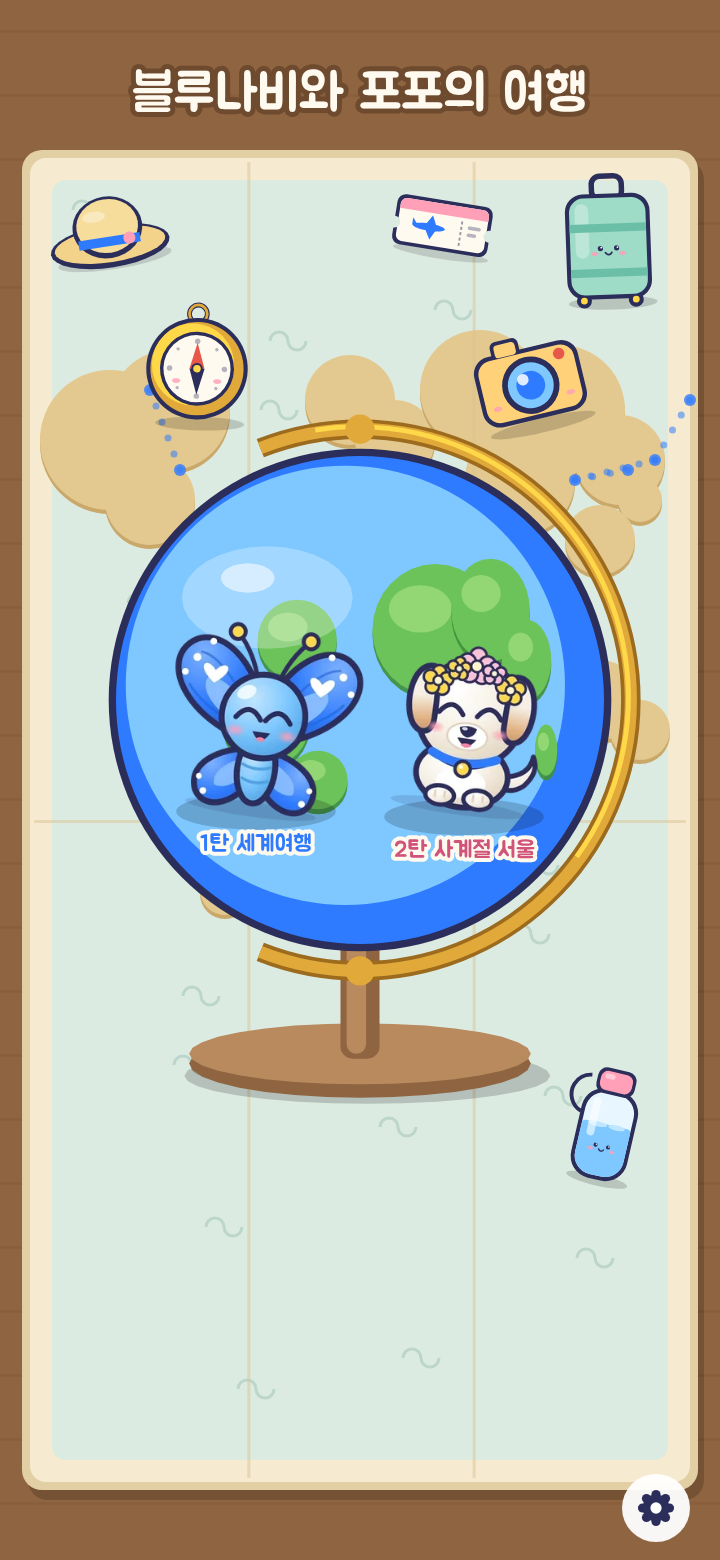
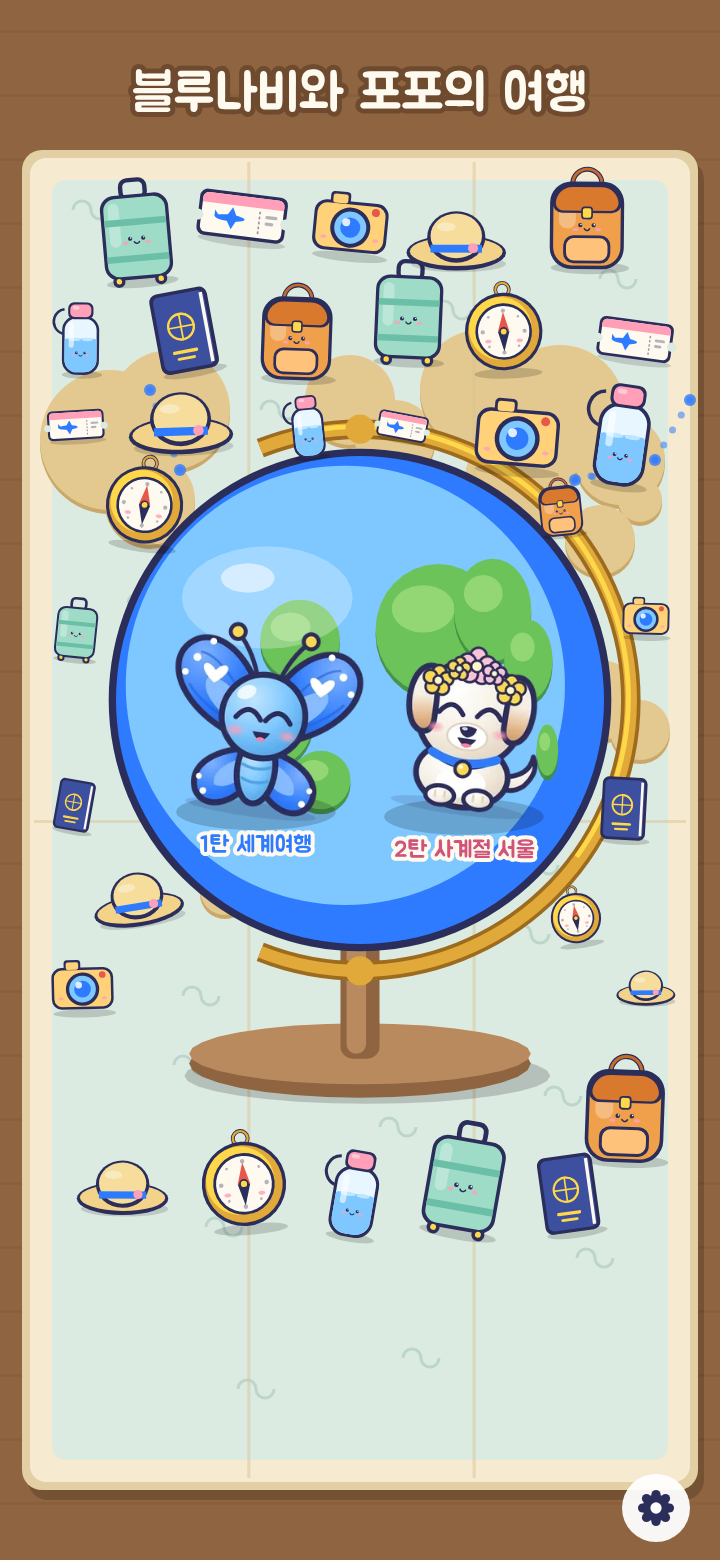
세로 썸네일: 여행 물품을 지구본 중심으로 빽빽하게, 같은 물품이 붙지 않게 (makeItems 옵션)
Claude-Session: https://claude.ai/code/session_01TkNv9721uSkR9vMBe25YwV

diff --git a/src/scenes/EntryScene.js b/src/scenes/EntryScene.js
@@ -169,43 +169,54 @@ export class EntryScene extends Phaser.Scene {
   // ── 주변 빈 곳을 채우는 귀여운 여행 물품 (배낭·물병·나침반, 파일 없이 그림, 2026-11-10) ──
   // 지도 종이의 빈 곳(지구본·블루나비·포포·제목을 피해서)에 물품을 흩어 놓는다 — 세로·가로·길쭉한 폰 모두 채워지게.
   // 자리는 고른 격자 + 조금씩 어긋나게(시드 고정), 크기·기울기도 조금씩 달리해 책상 위에 놓인 듯 자연스럽게.
-  makeItems() {
+  // opts(썸네일처럼 빽빽하게 채울 때): step 칸 간격, base·vary 크기, gap 지구본과 틈, bottom 이 아래는 비워 둠, max 개수
+  makeItems(opts = {}) {
+    this.items?.forEach((g) => g.destroy());
     const P = this.paper, { gx, gy, gs } = this.lay, land = UI.landscape;
     const R = GLOBE.r * gs;
-    const step = land ? 150 : 172;
+    const step = opts.step ?? (land ? 150 : 172);
+    const gap = opts.gap ?? 40, base = opts.base ?? (land ? 0.52 : 0.6), vary = opts.vary ?? 0.14;
+    const bottom = opts.bottom ?? Infinity, max = opts.max ?? 22;
     const KINDS = ['backpack', 'camera', 'bottle', 'ticket', 'compass', 'hat', 'suitcase', 'passport'];
     const DRAW = { backpack: drawBackpack, bottle: drawBottle, compass: drawCompass, suitcase: drawSuitcase, camera: drawCamera, hat: drawHat, passport: drawPassport, ticket: drawTicket };
     const rnd = (k) => { const v = Math.sin(k * 12.9898 + 78.233) * 43758.5453; return v - Math.floor(v); };
     const blocked = (x, y, r) => {
-      if (Math.hypot(x - gx, y - gy) < R + 40 + r) return true;                                   // 지구본
-      if (Math.abs(x - gx) < 160 * gs + r * 0.7 && y > gy && y < gy + R + 130 * gs + r) return true; // 받침
+      if (y + r > bottom) return true;                                                             // 비워 둘 아래 띠
+      if (Math.hypot(x - gx, y - gy) < R + gap + r) return true;                                  // 지구본
+      if (Math.abs(x - gx) < 160 * gs + r * 0.7 && y > gy && y < gy + 330 * gs + r * 0.6) return true; // 받침
       return false;
     };
     const spots = [];
     let k = 0;
     for (let y = P.y + 80; y < P.y + P.h - 60; y += step * 0.86) {
       const row = Math.round((y - P.y) / step);
-      for (let x = P.x + 78 + (row % 2) * step * 0.5; x < P.x + P.w - 60; x += step) {
+      for (let x = P.x + (opts.edge ?? 78) + (row % 2) * step * 0.5; x < P.x + P.w - 40; x += step) {
         k++;
         const jx = x + (rnd(k) - 0.5) * 34, jy = y + (rnd(k + 99) - 0.5) * 30;
-        const sc = (land ? 0.52 : 0.6) + rnd(k + 7) * 0.14;
-        const r = 72 * sc;
-        if (jx - r < P.x + 26 || jx + r > P.x + P.w - 26 || jy - r < P.y + 24 || jy + r > P.y + P.h - 22) continue;
-        if (blocked(jx, jy, r)) continue;
-        spots.push([jx, jy, sc, k]);
+        // 좁은 틈이면(opts.shrink) 조금 작게 해서라도 채운다
+        for (const f of opts.shrink ? [1, 0.78, 0.62] : [1]) {
+          const sc = (base + rnd(k + 7) * vary) * f;
+          const r = 72 * sc;
+          if (jx - r < P.x + 26 || jx + r > P.x + P.w - 26 || jy - r < P.y + 24 || jy + r > P.y + P.h - 22) continue;
+          if (blocked(jx, jy, r)) continue;
+          spots.push([jx, jy, sc, k]);
+          break;
+        }
       }
     }
+    // 지구본에 가까운 자리부터 채운다 (지구본 중심으로)
+    spots.sort((a, b) => Math.hypot(a[0] - gx, a[1] - gy) - Math.hypot(b[0] - gx, b[1] - gy));
     // 골고루 섞기: 가까운(약 1.7칸 안) 물품과 겹치지 않는 종류 중 지금까지 덜 쓴 것부터
     const placed = [], used = Object.fromEntries(KINDS.map((kd) => [kd, 0]));
     const pick = (x, y, kk) => {
-      const near = new Set(placed.filter((q) => Math.hypot(q.x - x, q.y - y) < step * 1.7).map((q) => q.kind));
+      const near = new Set(placed.filter((q) => Math.hypot(q.x - x, q.y - y) < step * (opts.mix ?? 1.7)).map((q) => q.kind));
       const order = KINDS.map((kd, n) => ({ kd, w: used[kd] + rnd(kk + n * 31) * 0.9 })).sort((a, b) => a.w - b.w);
       const kind = (order.find((o) => !near.has(o.kd)) ?? order[0]).kd;
       used[kind]++;
       placed.push({ x, y, kind });
       return kind;
     };
-    this.items = spots.slice(0, 22).map(([x, y, sc, kk], i) => {
+    this.items = spots.slice(0, max).map(([x, y, sc, kk], i) => {
       const g = this.add.graphics({ x, y }).setScale(sc).setAngle((rnd(kk + 3) - 0.5) * 22);
       DRAW[pick(x, y, kk)](g);
       if (!platform.reducedMotion) this.tweens.add({ targets: g, angle: g.angle + (i % 2 ? 4 : -4), duration: 1400 + (i % 5) * 260, yoyo: true, repeat: -1, ease: 'Sine.easeInOut', delay: (i % 4) * 300 });

diff --git a/CLAUDE.md b/CLAUDE.md
@@ -226,6 +226,7 @@
 | 2026-11-06 | 처음 화면을 **펼친 세계지도 안의 지구본 모형** 입구로, 1탄·2탄을 터치해서 들어가게 | 기획안 `docs/design-brief.md` 16절(새 Entry 씬, 지구본 위 1탄 나비 핀·2탄 발바닥 핀 + 이름표 카드, 톡 → 확대 → 타이틀, 타이틀엔 [◀ 지구본]) |
 | 2026-11-06 | 친구를 따로 대결로 사귀지 말고 **미로 안에서 놀고 마지막 출구에서 친구가 되게** | 답: 숨바꼭질 친구(세 번 찾기, 하트 3칸) / 1탄·2탄 모두. 턴제 대결 화면은 이야기에서 빠짐. 기획안 `docs/design-brief.md` 17절 |
 | 2026-11-10 | 지구본에서 들어가는 화면을 **「블루나비와 포포의 여행」에 어울리게**, 퐁퐁·여행 게임을 **2~3명이 같이** 하게 **합쳐** | 답: 타이틀 한 화면으로 합치기 / [같이 하기] 한 버튼(인원·놀이를 안에서, 혼자 퐁퐁도) / 3명 = 각자 폰 대결 링크. 기획안 `docs/design-brief.md` 19절, 시안 `docs/presentation/brief19-mock.png` |
+| 2026-11-11 | **썸네일**에 여행 물품을 **같은 물품이 붙지 않게 섞어서 지구본 중심으로 빈 공간 없이** | `thumbnail-tall-4` 다시(PNG 0.80MB·JPG 0.37MB): 바탕 캡처 때 `EntryScene.makeItems(opts)`로 빽빽하게(칸 112·좁은 틈은 작게·이웃 1.9칸 안 같은 종류 피함·지구본 가까운 자리부터, 33개). `makeItems`는 opts(step·base·vary·gap·bottom·max·mix·shrink·edge)를 받고, 게임에서도 지구본 가까운 자리부터 채움 |
 | 2026-11-10 | **카카오톡 미리보기 그림·발표 스크립트 PDF**도 (v3.9.5 지구본 화면으로) | 카카오: `public/og-image-v5.png`(1200×630, 이름 바꿔 캐시 피함) = 지구본 입구 가로 화면(`art/thumbnail/entry_land_v395.png`, 오른쪽 칸 물품만 숨김) + 오른쪽 카드("블루나비·포포를 톡! 지구본 여행 시작"·1탄 세계여행·2탄 사계절 서울·주소·만든 사람), 원본 `art/thumbnail/og2.html`. 발표 스크립트 `script-50s`: 머리 그림 `thumbnail-tall-4`, 2구간 "지구본의 블루나비나 포포를 톡 누르면 시작해요" |
 | 2026-11-10 | 수정된 내용(v3.9.5) 바탕으로 **썸네일** | `docs/presentation/thumbnail-tall-4.png`(0.58MB)·`.jpg`(0.29MB), 1080×2340(9:19.5): 바탕 = 실제 지구본 입구 화면(`art/thumbnail/entry_v395.png`, 아래 띠의 물품·버전만 숨김) + "블루나비·포포를 톡! 설치 없이 링크로 바로" + 게임 주소 + 만든 사람 장은영(블루나비). 원본 `art/thumbnail/thumbnail-tall-4.html`, `node scripts/build-thumbnail.cjs` |
 | 2026-11-10 | 블루나비·포포를 **지구본 가운데** 배치, 물품 **적절히 섞어서** | v3.9.5: 둘이 지구본 가운데 나란히(세로 228·가로 186 크기, 이름은 지구본 위), 물품은 이웃과 다른 종류로 골고루, 받침 옆 빈 곳에도 |
